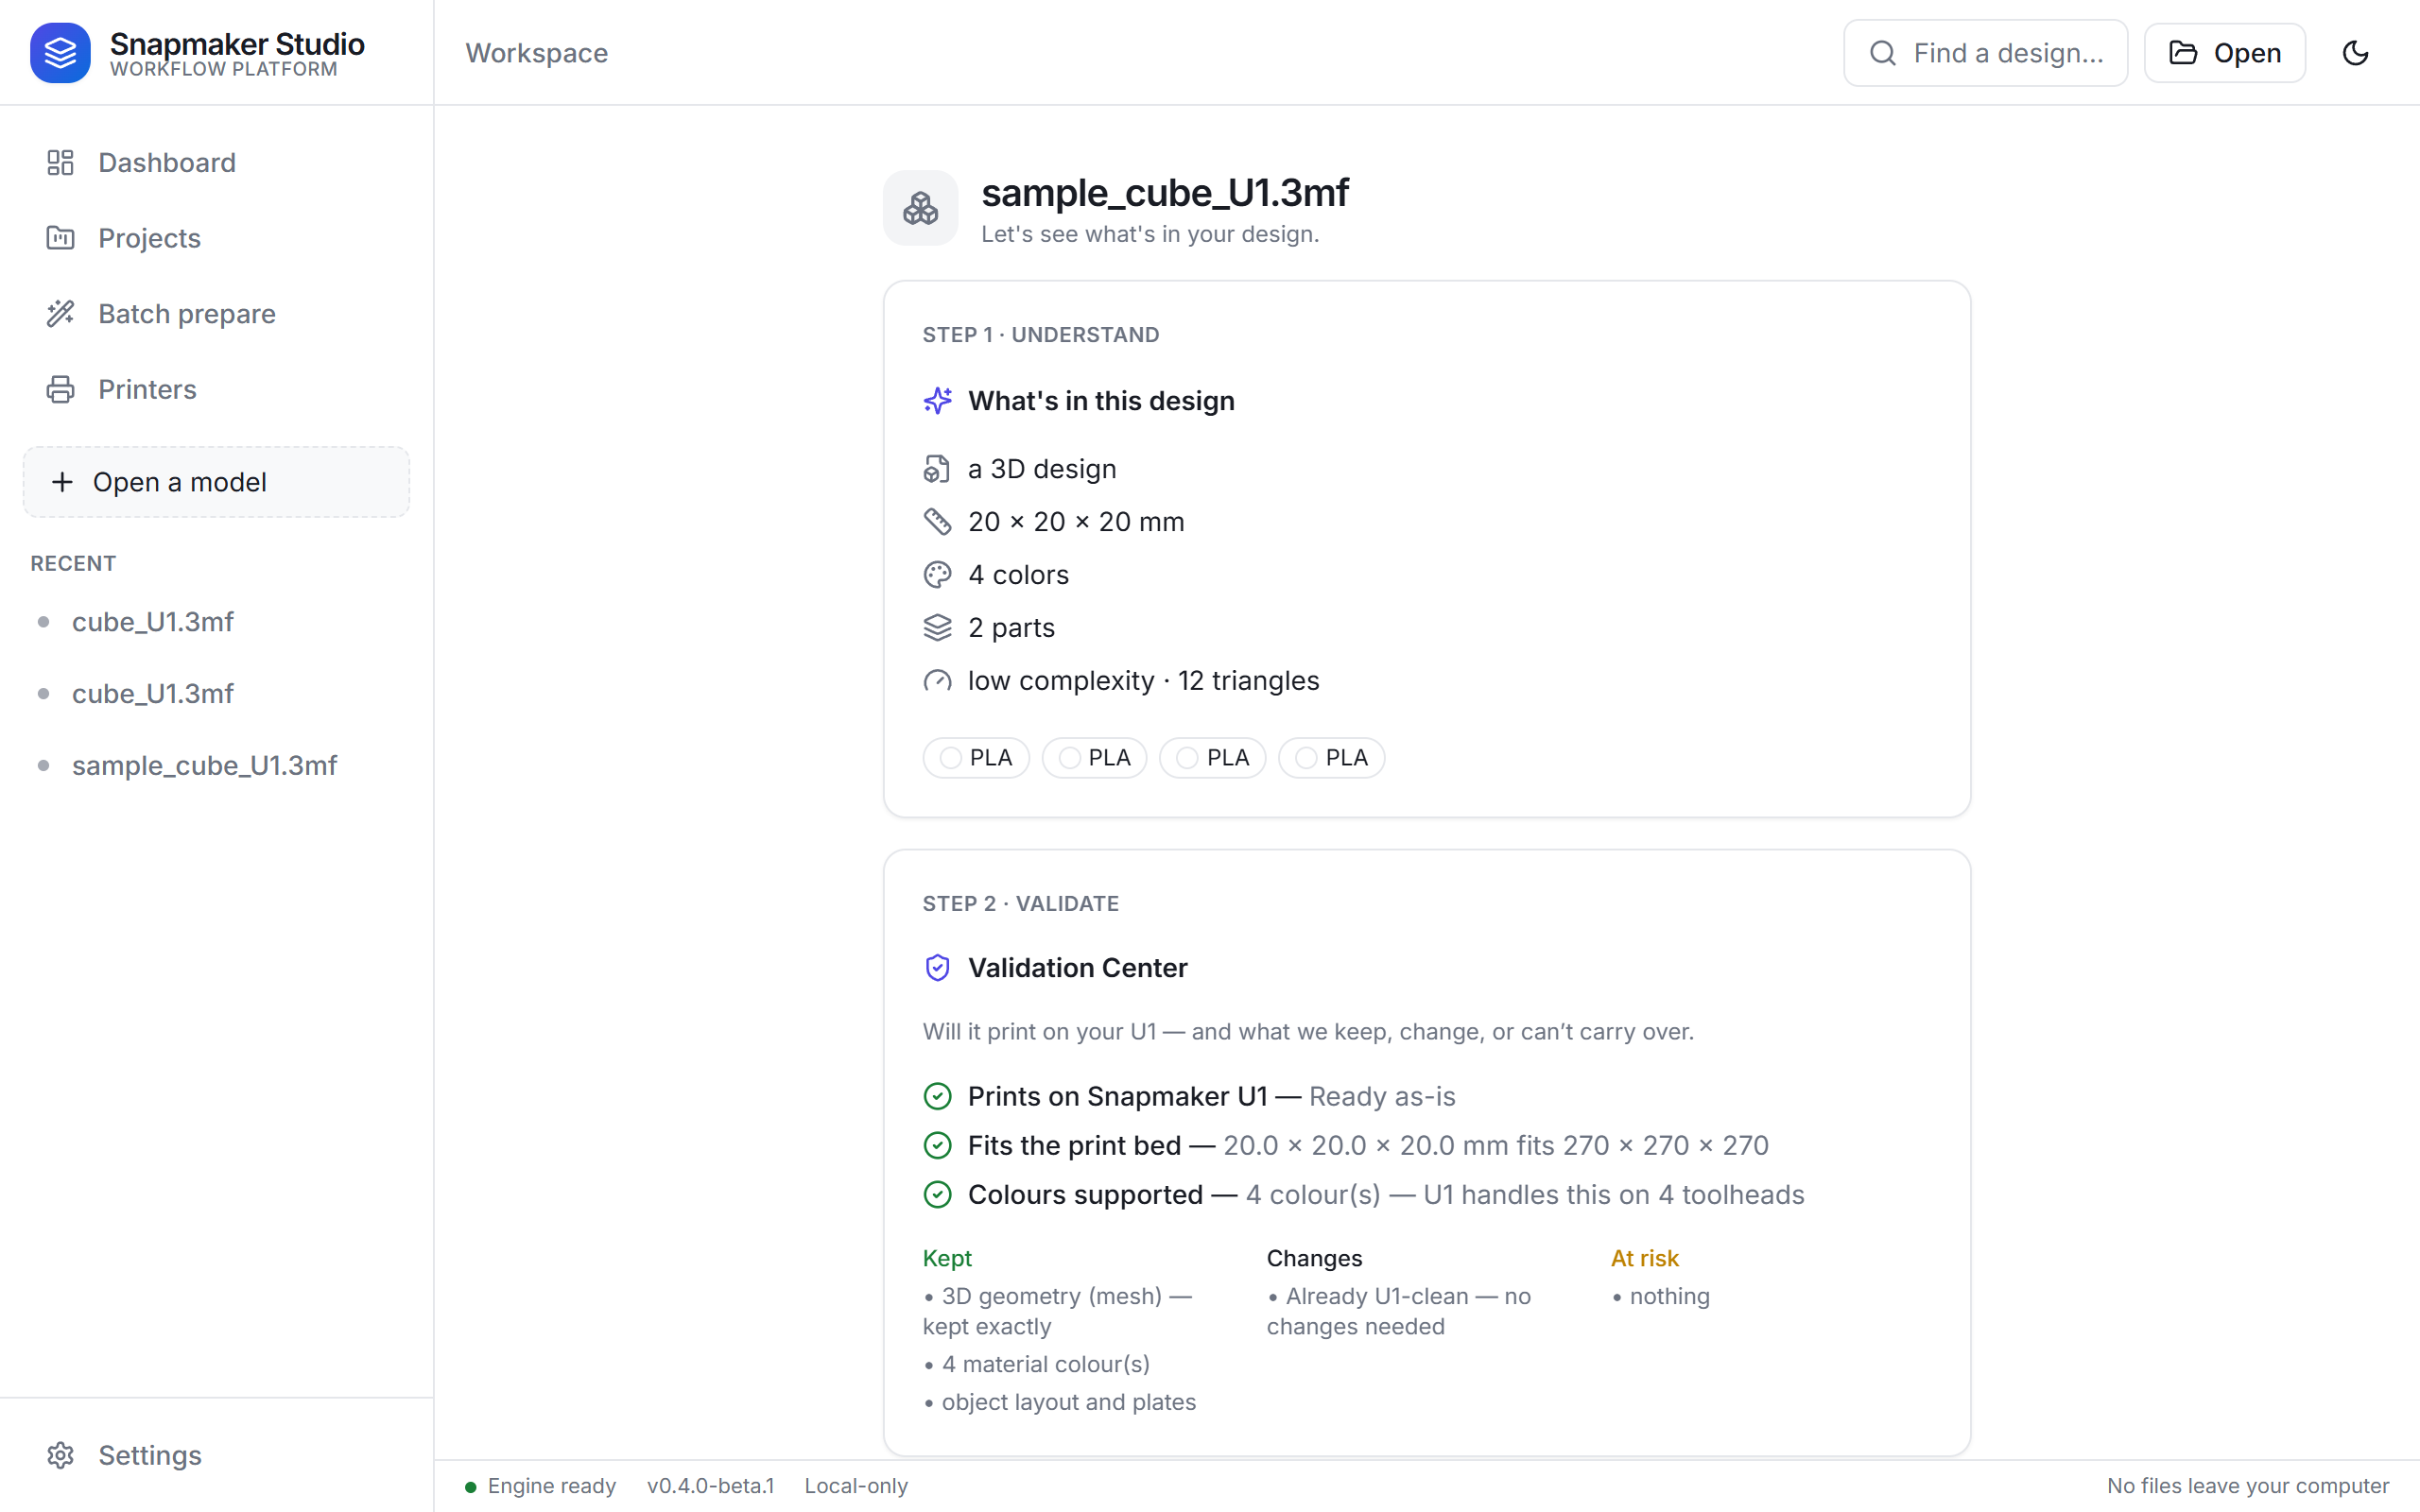
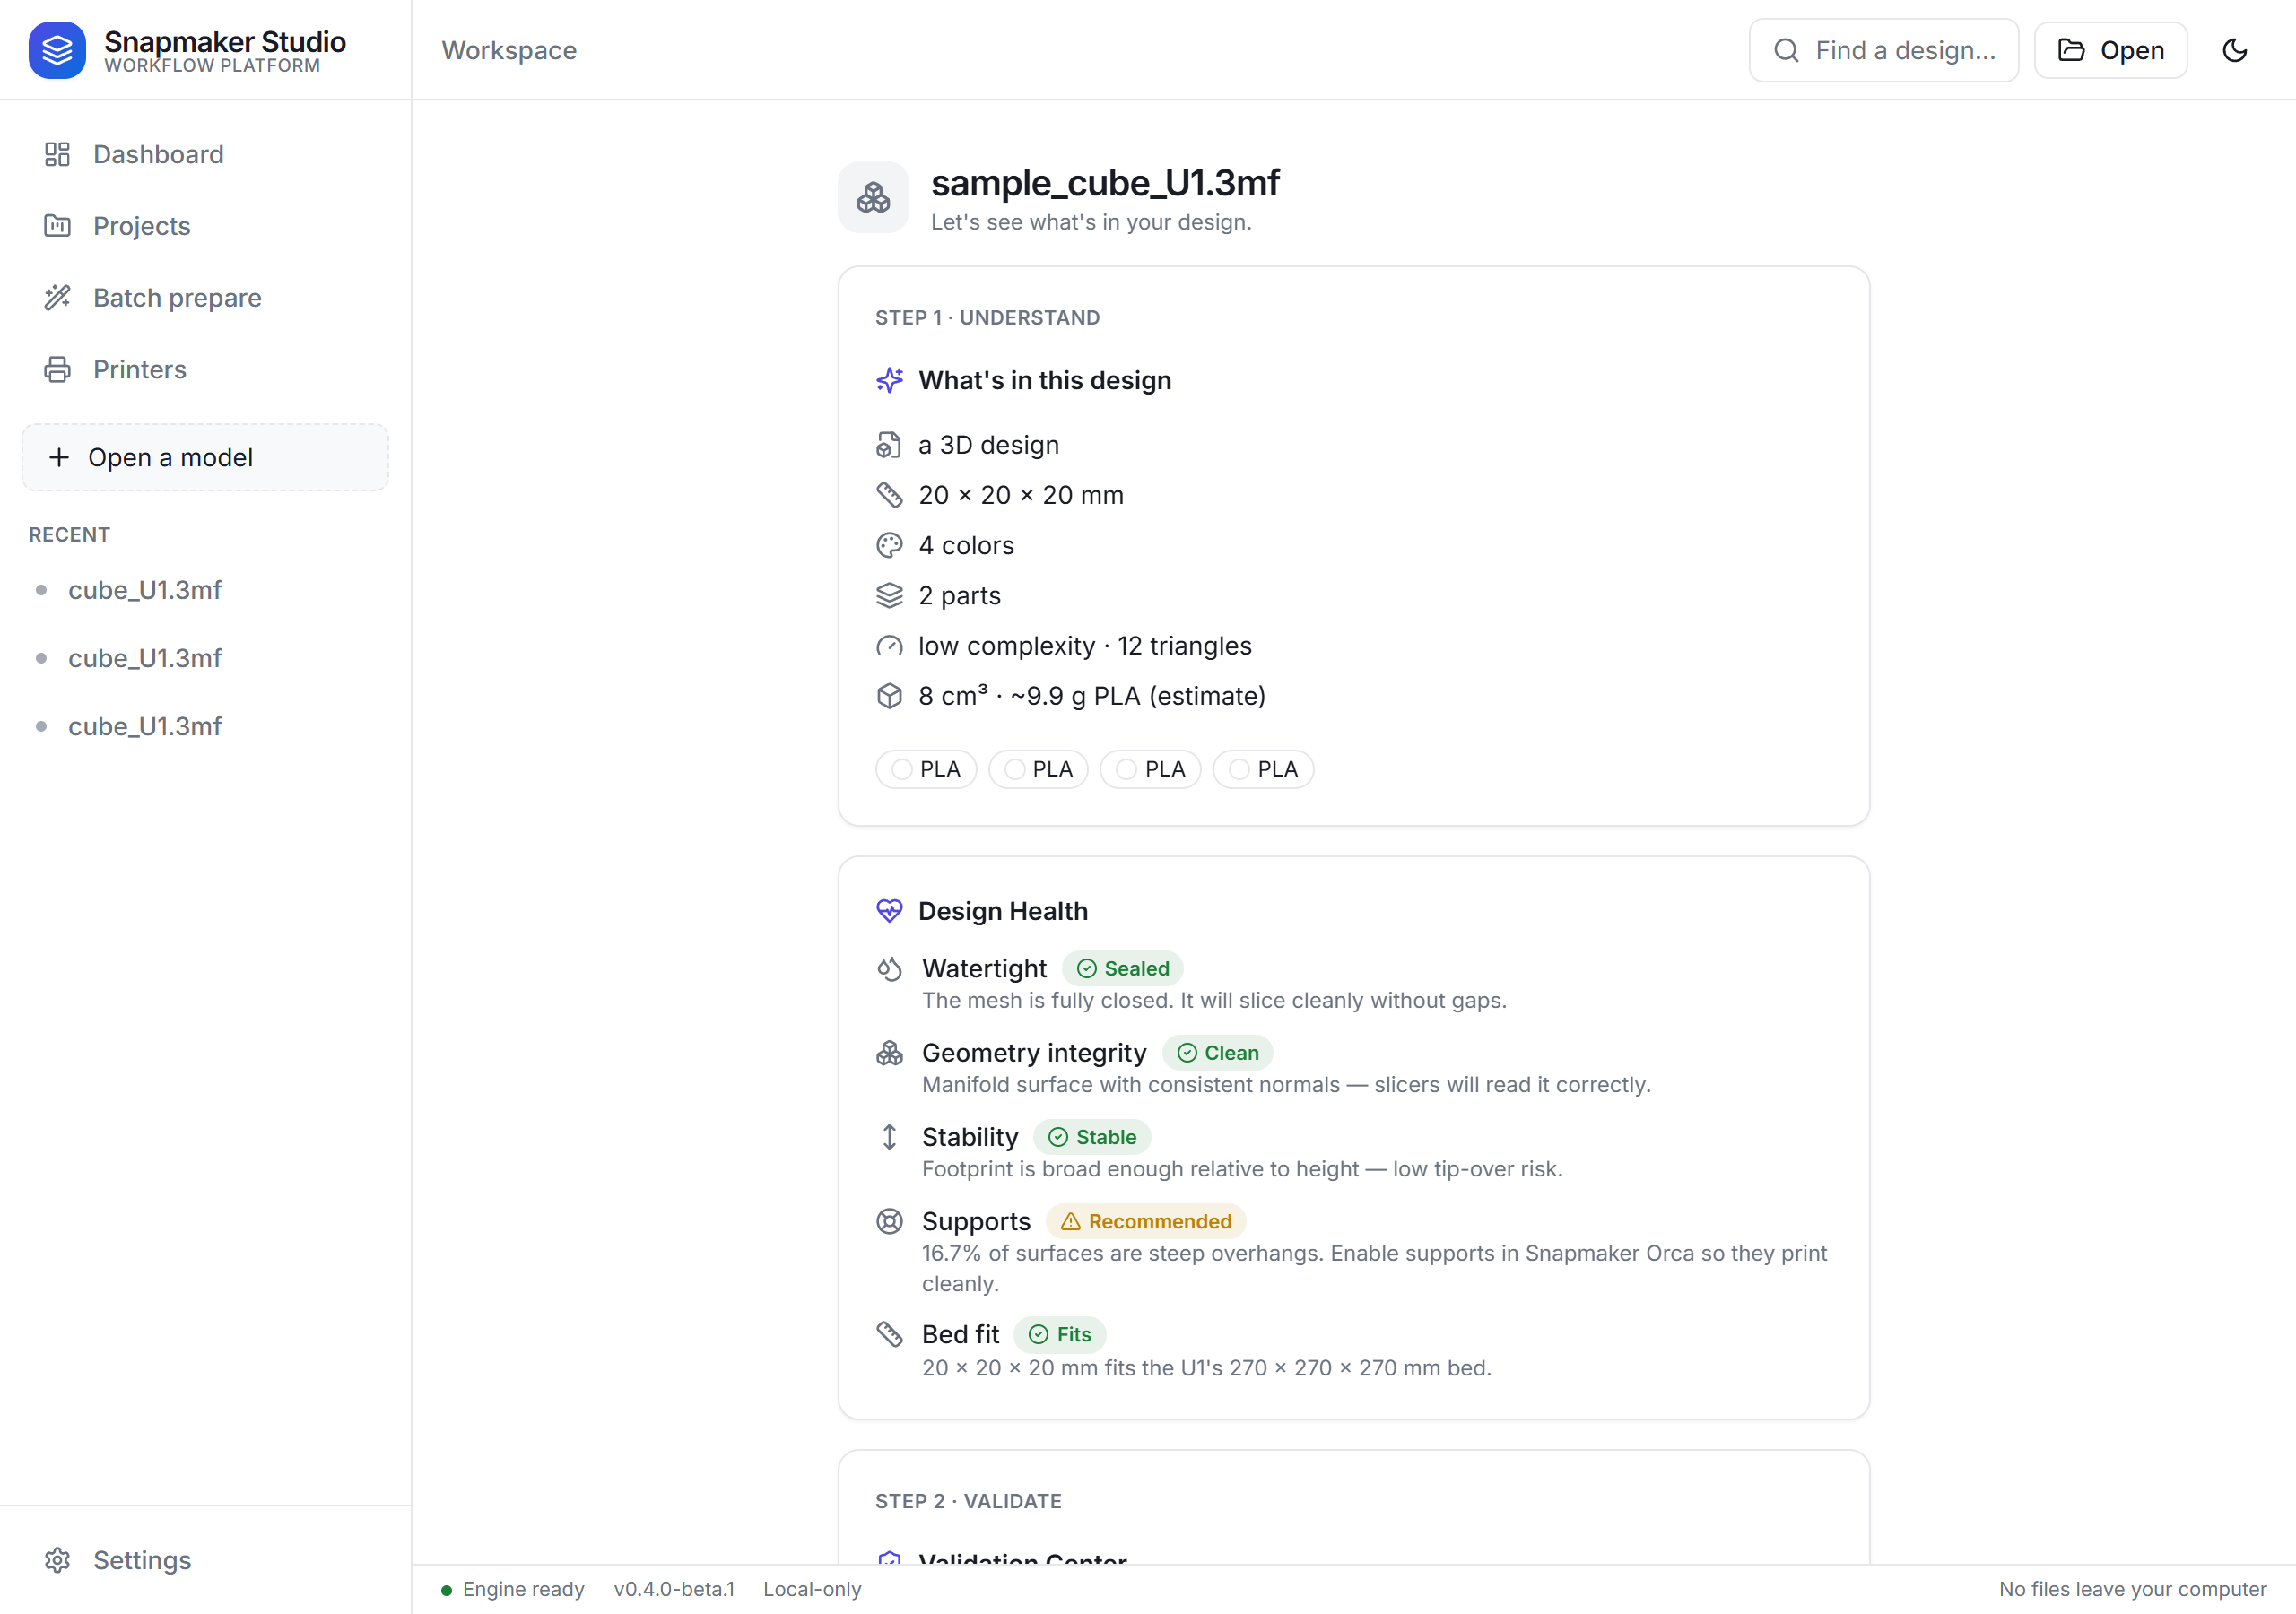
feat(ux): surface Design Health everywhere + reposition README
Makes the new geometry intelligence visible across surfaces (no new engine features;
visibility/positioning/clarity only).

- components/DesignHealth.tsx: reusable Design Health section — 5 badges (Watertight,
  Geometry integrity, Stability, Supports, Bed fit) with status pills (Good/Check/Risk)
  and plain-language what-found / why-it-matters / what-to-do for each. Advanced mode
  appends raw metrics (triangles/volume/area/overhang/aspect/open-edges).
- Design Insights (Simple): new Design Health card between "What's in this design"
  and the Validation Center; volume + material estimate already in the facts list.
- LiveWorkspace (Advanced): Design Health card (mode=advanced) with raw metrics.
- Dashboard: workflow strip hints now name the intelligence ("watertight, supports,
  stability & bed fit").
- README: repositioned from converter to "understands your design before you print
  it" — Understand/Validate steps and a new Design Health bullet spell out the
  geometry checks; explicit "it's not a converter" framing.
- Screenshots: refreshed Design Insights + new Design Health capture.

Build green; tsc clean; backend 64 passed.

diff --git a/desktop/src/components/DesignHealth.tsx b/desktop/src/components/DesignHealth.tsx
@@ -1,0 +1,115 @@
+import { CheckCircle2, AlertTriangle, ShieldAlert, Droplets, Boxes, MoveVertical, LifeBuoy, Ruler } from "lucide-react";
+import type { LucideIcon } from "lucide-react";
+import { cn } from "@/lib/utils";
+import type { MeshReport } from "@/api";
+
+// U1 build volume (mm) — matches the engine's bed-fit check.
+const U1_BED = { x: 270, y: 270, z: 270 };
+
+type Level = "ok" | "warn" | "risk";
+interface Row { key: string; label: string; icon: LucideIcon; level: Level; status: string; detail: string; }
+
+const PILL: Record<Level, string> = {
+  ok: "bg-ready/10 text-ready",
+  warn: "bg-repairable/10 text-repairable",
+  risk: "bg-risk/10 text-risk",
+};
+const STATUS_ICON: Record<Level, LucideIcon> = { ok: CheckCircle2, warn: AlertTriangle, risk: ShieldAlert };
+
+function buildRows(mesh: MeshReport, dims?: { x: number; y: number; z: number } | null): Row[] {
+  const rows: Row[] = [];
+  const integ = mesh.integrity;
+
+  // 1. Watertight
+  if (integ) {
+    rows.push(integ.watertight
+      ? { key: "watertight", label: "Watertight", icon: Droplets, level: "ok", status: "Sealed",
+          detail: "The mesh is fully closed. It will slice cleanly without gaps." }
+      : { key: "watertight", label: "Watertight", icon: Droplets, level: "risk", status: `${integ.holes} hole${integ.holes === 1 ? "" : "s"}`,
+          detail: `Found ${integ.holes} hole(s) / ${integ.open_edges} open edge(s). Open meshes can print with gaps or fail — repair the model before printing.` });
+
+    // 2. Geometry integrity (manifold + normals + degenerate)
+    const intIssues: string[] = [];
+    if (integ.non_manifold_edges) intIssues.push(`${integ.non_manifold_edges} non-manifold edge(s)`);
+    if (!integ.winding_consistent) intIssues.push("inconsistent face normals");
+    if (integ.degenerate_faces) intIssues.push(`${integ.degenerate_faces} zero-area face(s)`);
+    rows.push(intIssues.length === 0
+      ? { key: "integrity", label: "Geometry integrity", icon: Boxes, level: "ok", status: "Clean",
+          detail: "Manifold surface with consistent normals — slicers will read it correctly." }
+      : { key: "integrity", label: "Geometry integrity", icon: Boxes, level: integ.non_manifold_edges ? "risk" : "warn", status: "Issues",
+          detail: `${intIssues.join(", ")}. These can confuse a slicer; a repair pass cleans them up.` });
+  }
+
+  // 3. Stability / tip-risk
+  if (mesh.stability) {
+    const tip = mesh.stability.tip_risk;
+    rows.push({ key: "stability", label: "Stability", icon: MoveVertical, level: tip ? "warn" : "ok",
+      status: tip ? "Tip risk" : "Stable",
+      detail: tip
+        ? `Tall and narrow (aspect ${mesh.stability.aspect}). It may tip over or knock off the bed — add a brim or reorient, and consider the Maximum Reliability strategy.`
+        : "Footprint is broad enough relative to height — low tip-over risk." });
+  }
+
+  // 4. Supports recommended
+  if (mesh.overhang) {
+    const s = mesh.overhang.supports_likely;
+    rows.push({ key: "supports", label: "Supports", icon: LifeBuoy, level: s ? "warn" : "ok",
+      status: s ? "Recommended" : "Not needed",
+      detail: s
+        ? `${mesh.overhang.overhang_pct}% of surfaces are steep overhangs. Enable supports in Snapmaker Orca so they print cleanly.`
+        : "Few steep overhangs — this should print without supports." });
+  }
+
+  // 5. Bed fit (from dimensions vs the U1 bed)
+  if (dims) {
+    const fits = dims.x <= U1_BED.x && dims.y <= U1_BED.y && dims.z <= U1_BED.z;
+    rows.push({ key: "bedfit", label: "Bed fit", icon: Ruler, level: fits ? "ok" : "risk",
+      status: fits ? "Fits" : "Too big",
+      detail: fits
+        ? `${dims.x} × ${dims.y} × ${dims.z} mm fits the U1's 270 × 270 × 270 mm bed.`
+        : `${dims.x} × ${dims.y} × ${dims.z} mm is larger than the U1's 270 mm bed — scale it down or split it.` });
+  }
+  return rows;
+}
+
+/** Design Health — at-a-glance geometry verdicts with plain-language what/why/do.
+ *  `mode` "advanced" appends the raw metric footer. */
+export function DesignHealth({ mesh, dims, mode = "simple" }: {
+  mesh?: MeshReport; dims?: { x: number; y: number; z: number } | null; mode?: "simple" | "advanced";
+}) {
+  if (!mesh) return null;
+  if (!mesh.available) {
+    return <p className="text-xs text-muted-foreground">Geometry analysis isn’t available for this file (it may be too large).</p>;
+  }
+  const rows = buildRows(mesh, dims);
+  if (!rows.length) return null;
+
+  return (
+    <div className="space-y-2.5">
+      {rows.map((r) => {
+        const SIcon = STATUS_ICON[r.level];
+        return (
+          <div key={r.key} className="flex items-start gap-2.5">
+            <r.icon className="mt-0.5 h-4 w-4 shrink-0 text-muted-foreground" />
+            <div className="min-w-0 flex-1">
+              <div className="flex items-center gap-2">
+                <span className="text-sm font-medium">{r.label}</span>
+                <span className={cn("inline-flex items-center gap-1 rounded-full px-2 py-0.5 text-[11px] font-semibold", PILL[r.level])}>
+                  <SIcon className="h-3 w-3" /> {r.status}
+                </span>
+              </div>
+              <p className="text-xs leading-snug text-muted-foreground">{r.detail}</p>
+            </div>
+          </div>
+        );
+      })}
+      {mode === "advanced" && (
+        <p className="border-t border-border pt-2 text-[11px] text-muted-foreground">
+          {mesh.triangle_count?.toLocaleString()} triangles · {mesh.volume_cm3} cm³ · {mesh.surface_area_mm2} mm² ·
+          overhang {mesh.overhang?.overhang_pct}% (severe {mesh.overhang?.severe_pct}%) ·
+          aspect {mesh.stability?.aspect} · open edges {mesh.integrity?.open_edges}
+        </p>
+      )}
+    </div>
+  );
+}

diff --git a/desktop/src/routes/LiveWorkspace.tsx b/desktop/src/routes/LiveWorkspace.tsx
@@ -12,7 +12,11 @@ import { cn } from "@/lib/utils";
 import { useSession } from "@/store/session";
 import { useOpenFile } from "@/hooks/useOpenFile";
 import { StrategyPicker } from "@/components/StrategyPicker";
+import { DesignHealth } from "@/components/DesignHealth";
+import { mesh as apiMesh, insights as apiInsights } from "@/api";
+import { useQuery } from "@tanstack/react-query";
 import { useState } from "react";
+import { HeartPulse } from "lucide-react";
 
 function Spinner() {
   return <Loader2 className="h-4 w-4 animate-spin" />;
@@ -28,6 +32,9 @@ export default function LiveWorkspace() {
   const diff = useSession((s) => s.diff);
   const runDiff = useSession((s) => s.runDiff);
   const openFile = useOpenFile();
+
+  const meshQ = useQuery({ queryKey: ["mesh", file?.path], queryFn: () => apiMesh(file!.path), enabled: !!file && doctor.status === "done" });
+  const insQ = useQuery({ queryKey: ["insights", file?.path], queryFn: () => apiInsights(file!.path), enabled: !!file && doctor.status === "done" });
 
   // No file in session (e.g. hard refresh) — send the user back to start.
   if (!file) return <Navigate to="/" replace />;
@@ -57,6 +64,15 @@ export default function LiveWorkspace() {
           </Button>
         </div>
       </div>
+
+      {doctor.status === "done" && meshQ.data?.available && (
+        <Card>
+          <CardContent className="space-y-3 p-5">
+            <div className="flex items-center gap-2 text-sm font-semibold"><HeartPulse className="h-4 w-4 text-primary" /> Design Health</div>
+            <DesignHealth mesh={meshQ.data} dims={insQ.data?.dimensions_mm} mode="advanced" />
+          </CardContent>
+        </Card>
+      )}
 
       {doctor.status === "done" && (
         <Card>

diff --git a/desktop/src/routes/DesignInsights.tsx b/desktop/src/routes/DesignInsights.tsx
@@ -14,6 +14,8 @@ import { insights as apiInsights, report as apiReport, mesh as apiMesh } from "@
 import { useOpenFile } from "@/hooks/useOpenFile";
 import { useToast } from "@/store/toast";
 import { StrategyPicker } from "@/components/StrategyPicker";
+import { DesignHealth } from "@/components/DesignHealth";
+import { HeartPulse } from "lucide-react";
 import {
   readinessStars, familyLabel, verdictStatus, colorsLabel, partsLabel,
 } from "@/lib/simple";
@@ -172,6 +174,16 @@ export default function DesignInsights() {
               )}
             </CardContent>
           </Card>
+
+          {/* Design Health — real geometry verdicts in plain language */}
+          {meshData?.available && (
+            <Card>
+              <CardContent className="space-y-3 p-5">
+                <div className="flex items-center gap-2 text-sm font-semibold"><HeartPulse className="h-4 w-4 text-primary" /> Design Health</div>
+                <DesignHealth mesh={meshData} dims={dims} mode="simple" />
+              </CardContent>
+            </Card>
+          )}
 
           {/* Validation Center — will it print + what's preserved/changes/at-risk */}
           {rep && (

diff --git a/desktop/src/components/Workflow.tsx b/desktop/src/components/Workflow.tsx
@@ -4,8 +4,8 @@ import { Sparkles, ShieldCheck, Wand2, Printer, ChevronRight } from "lucide-reac
 // stages. Used on the Dashboard to frame Studio as an end-to-end workflow,
 // not a one-shot converter. Each stage maps to a real feature in the app.
 const PHASES = [
-  { icon: Sparkles, label: "Understand", hint: "See colors, size & complexity" },
-  { icon: ShieldCheck, label: "Validate", hint: "Confirm it prints on your U1" },
+  { icon: Sparkles, label: "Understand", hint: "Colors, size, volume & geometry health" },
+  { icon: ShieldCheck, label: "Validate", hint: "Watertight, supports, stability & bed fit" },
   { icon: Wand2, label: "Prepare", hint: "Make a clean U1 project" },
   { icon: Printer, label: "Print", hint: "Monitor your U1 live" },
 ];

diff --git a/README.md b/README.md
@@ -7,18 +7,21 @@
 ![Release](https://img.shields.io/github/v/release/DeadlyVirusIn/snapmaker-studio?display_name=tag&include_prereleases)
 ![Status: beta](https://img.shields.io/badge/status-beta-orange.svg)
 
-**The workflow platform for modern 3D printing.**
+**The workflow platform for modern 3D printing — it understands your design before you print it.**
 
-_Understand any design, check if it will print, get it ready — and watch your printer do it._
+_Understand any design, check if it will actually print, get it ready — and watch your printer do it._
 
 Snapmaker Studio is a friendly, local-first desktop app (plus a scriptable engine
-and CLI) that takes a 3D design from **any** common source and walks it through the
-whole pre-print workflow:
+and CLI) that **reads the real geometry** of a 3D design from **any** common source and
+walks it through the whole pre-print workflow:
 
-1. **Understand** — see colors, size, complexity and which ecosystem it came from, in plain language.
-2. **Validate** — find out whether it will print, and exactly what's preserved, changed, or at risk.
+1. **Understand** — colors, size, volume, complexity, source ecosystem, and a **Design Health** read on the actual mesh, in plain language.
+2. **Validate** — will it print? **Watertight check, hole detection, geometry integrity, overhang/supports prediction, stability/tip-risk, and bed fit** — each with what was found, why it matters, and what to do.
 3. **Prepare** — make a clean, print-ready copy. Your originals are never changed.
 4. **Monitor** — watch your printer's live status while it prints (read-only).
+
+It's not a converter — it's the layer that tells you whether a design will print, and
+why, *before* you waste filament. (Converting to a clean U1 project is just one step.)
 
 Runs entirely on your machine. No cloud, no account, no upload — local-first and
 open source.
@@ -62,11 +65,17 @@ printer target; the workflow is built to grow across ecosystems.
 
 ## What's inside
 
-- **Project Intelligence** — real, read-only design data: dimensions, triangle count
+- **Design Health** — real geometry analysis of the actual mesh: **watertight check,
+  hole detection, manifold/normals integrity, overhang → supports prediction,
+  stability/tip-risk, and bed fit** — each as a badge with what was found, why it
+  matters, and what to do. Volume + an honest material *estimate* too. Slice-free,
+  cross-ecosystem, in plain language.
+- **Project Intelligence** — read-only design data: dimensions, volume, triangle count
   and complexity, detected materials/colors, object and plate counts, and the source
   ecosystem. No guesswork, no fake data.
 - **Validation Center** — a readiness check that answers the questions a novice
-  actually has: *will it print, what's preserved, what changes, and what's at risk?*
+  actually has: *will it print, what's preserved, what changes, and what's at risk?* —
+  now backed by the Design Health geometry checks above.
 - **Prepare** — make a clean, validated print-ready copy in one click. Originals are
   never overwritten; every change is recorded.
 - **Printer Hub (read-only)** — discover a networked Snapmaker U1 over its open,